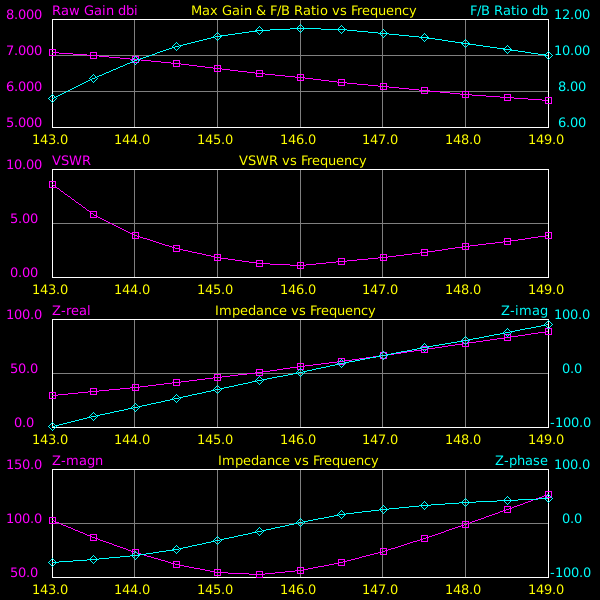
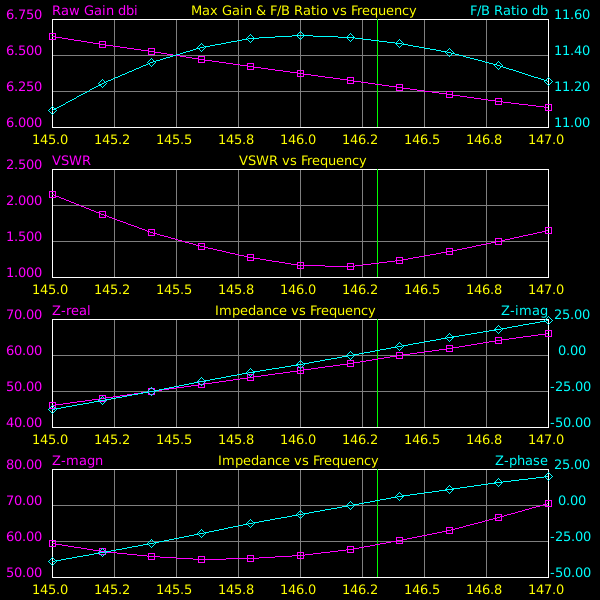
shorter DE is better

diff --git a/2m-2el-146.310.py b/2m-2el-146.310.py
@@ -26,7 +26,7 @@ NH     0     0     0      0  0.00000E+00  0.00000E+00  0.00000E+00  0.00000E+00 
 EX     0     8     1      0  1.00000E+00  0.00000E+00  0.00000E+00  0.00000E+00  0.00000E+00  0.00000E+00
 NE     0    10     1     10 -1.35000E+00  0.00000E+00 -1.35000E+00  3.00000E-01  0.00000E+00  3.00000E-01
 RP     0    19    37      0  0.00000E+00  0.00000E+00  1.00000E+01  1.00000E+01  0.00000E+00  0.00000E+00
-FR     0    13     0      0  1.43000E+02  5.00000E-01  1.49000E+02  0.00000E+00  0.00000E+00  0.00000E+00
+FR     0    11     0      0  1.45000E+02  2.00000E-01  1.47000E+02  0.00000E+00  0.00000E+00  0.00000E+00
 EN     0     0     0      0  0.00000E+00  0.00000E+00  0.00000E+00  0.00000E+00  0.00000E+00  0.00000E+00
 '''
 
@@ -95,7 +95,7 @@ refLength           = inch(40.5)
 woodSquareSide      = inch(0.75)
 arcRadiusD          = inch(0.5)
 feedpointSeparation = inch(0.5)
-deLength            = inch(38.1)
+deLength            = inch(38.0)
 deY                 = inch(5.8)
 deTopZ              = refZ
 lengthOfBendF       = inch(2.0)
